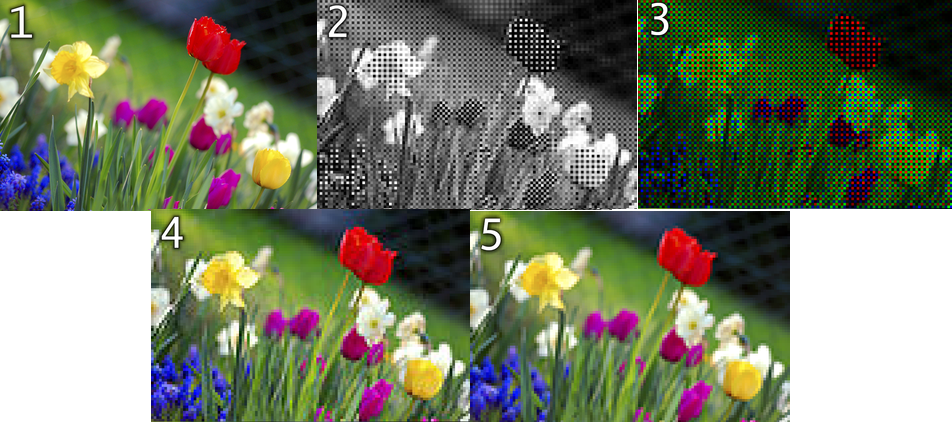
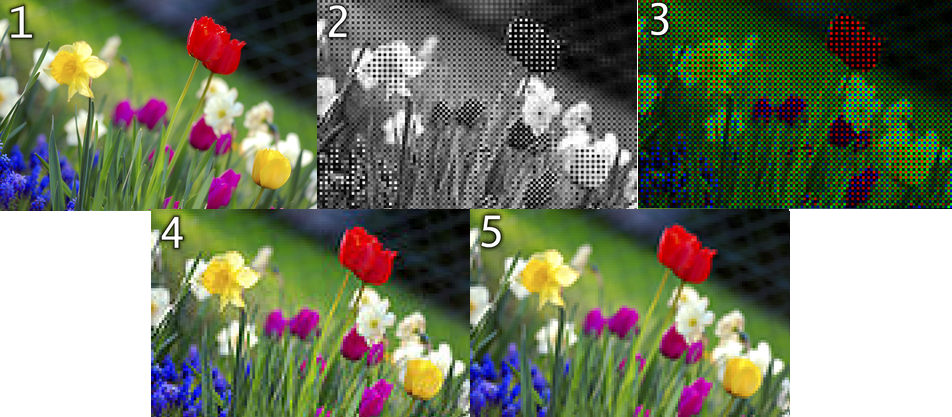
Added images to colorseg

diff --git a/colorseg.md b/colorseg.md
@@ -65,6 +65,7 @@ You might be wondering how does one collect color/RGB (Red Green Blue) images. A
   <img src="/assets/colorseg/bayer.png">
   <div class="figcaption">Left: The Bayer arrangement of color filters on the pixel array of an image sensor. Right: Profile/cross-section of sensor
 .</div>
+  <br>
   <img src="/assets/colorseg/bayer2.png">
   <div class="figcaption">1. Original scene. 2. Output of a 120×80-pixel sensor with a Bayer filter. 3. Output color-coded with Bayer filter colors. 4. Reconstructed image after interpolating missing color information. 5. Full RGB version at 120x80-pixels for comparison (e.g. as a film scan might appear)</div>
 </div>
@@ -145,6 +146,7 @@ Keen readers might have observed that HSV was a non-linear transformation and YC
 <div class="fig figcenter fighighlight">
   <img src="/assets/colorseg/colorspaces.png">
   <div class="figcaption">Left to right: Represenation of RGB color cube in RGB, HSV and YCbCr color spaces.</div>
+  <br>
   <img src="/assets/colorseg/colorspacesnaoimg.png">
   <div class="figcaption">Nao robot view in RGB, HSV and YCbCr colorspaces.</div>
 </div>
